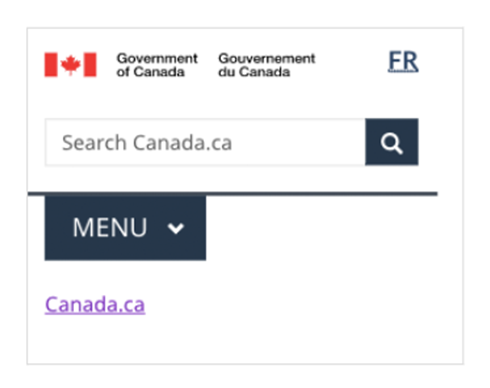
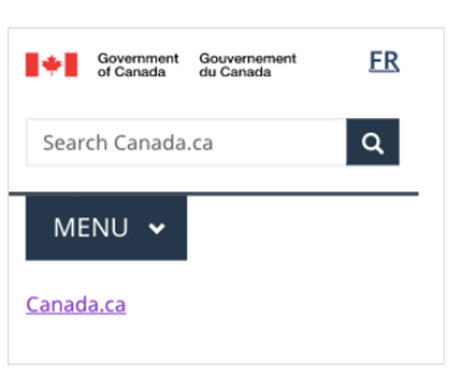
aa

diff --git a/prctest/signin/header-01.html b/prctest/signin/header-01.html
@@ -93,7 +93,7 @@
 		<h3>Global header – large screen</h3>
 		  <img src="images/header-01.png" width="933" height="182" alt=""/>
 		<h3>Global header – small screen</h3>
-		<img src="images/header-02.png" width="490" height="388" alt=""/>
+		<img src="images/header-02.png" width="471" height="388" alt=""/>	
 <p>The header consists of the following elements:</p>
       <ul>
         <li>Background colour (white)</li>
